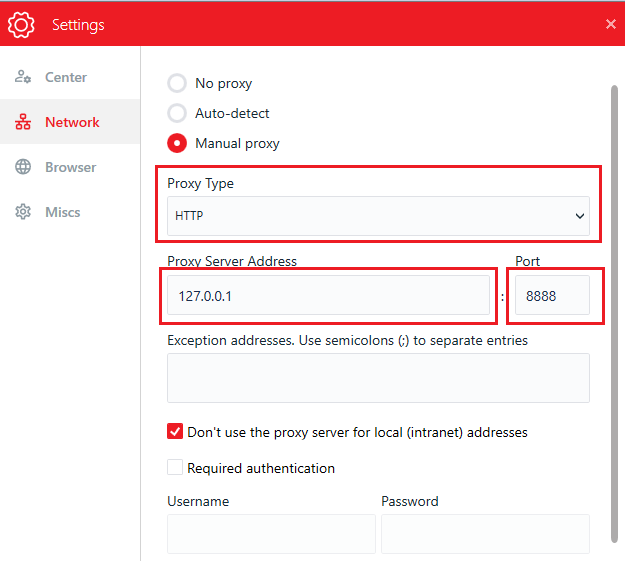
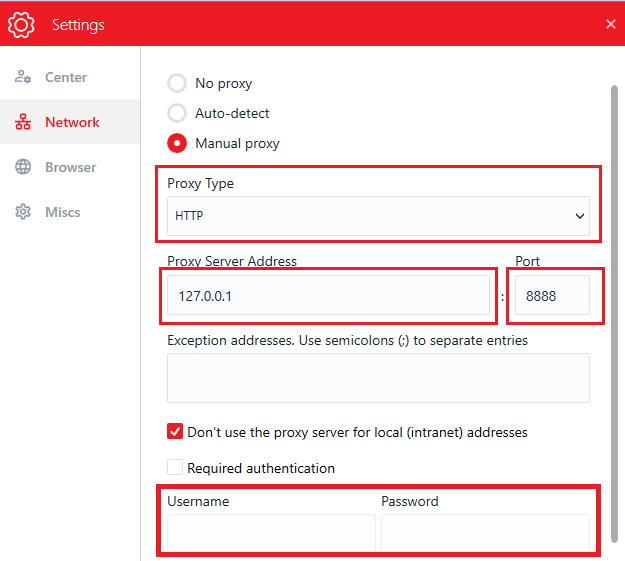
moved: troubleshoot ask ai fix: image to big in how to use ask ai

Changed region(s): [[0.2432, 0.8485, 0.9728, 1.0]]

diff --git a/docs/studio/latest/user-guide/generating-expression-code.md b/docs/studio/latest/user-guide/generating-expression-code.md
@@ -125,3 +125,7 @@ These prompts are designed for the **Code Editor** (used in Invoke Code or Scrip
 | **Filter & Aggregation** | Grouping, aggregation, and complex joins on data tables that are too verbose for a single-line expression. | `"Group dt_Sales by Column 'Region' and compute the sum of 'Revenue' for each region into a new DataTable out_Summary"` |
 | **Error Handling & Logging** | Implements standard try-catch blocks around sensitive file operations to log errors without breaking the main bot thread. | `"Try to read file at in_FilePath, catch all exceptions, write details to Console.Error, and set out_IsSuccess to false"` |
 | **File System Manipulation** | Performs deep recursive file scans, filtering, and copying operations. | `"Recursively search directory in_SourcePath for all files modified in the last 24 hours, copy them to in_DestPath, and count total files copied in out_FileCount"` |
+
+## Troubleshooting
+
+If you encounter network connection issues or errors when using the Ask AI service, refer to the [Troubleshoot Ask AI](../troubleshoot/troubleshoot-ask-ai.md) guide.

diff --git a/docs/studio/latest/user-guide/how-to-use-ask-ai.md b/docs/studio/latest/user-guide/how-to-use-ask-ai.md
@@ -132,3 +132,7 @@ After configuring these properties, the Deserialize Json <T> activity should par
 ```
 
 ![How to use activities](/static/img/how-to-use-activities-ask-ai.png)
+
+## Troubleshooting
+
+If you encounter network connection issues or errors when using the Ask AI service, refer to the [Troubleshoot Ask AI](../troubleshoot/troubleshoot-ask-ai.md) guide.

diff --git a/i18n/ja/studio/latest/user-guide/generating-expression-code.md b/i18n/ja/studio/latest/user-guide/generating-expression-code.md
@@ -123,3 +123,7 @@ AIアシスタントから最も正確で信頼性の高い式を取得するに
 | **Filter & Aggregation** | 1行の式では冗長すぎるデータテーブルに対するグループ化、集約、および複雑な結合処理を行います。 | `"Group dt_Sales by Column 'Region' and compute the sum of 'Revenue' for each region into a new DataTable out_Summary"` |
 | **Error Handling & Logging** | メインのボットスレッドを中断することなくエラーをログに記録するため、機密性の高いファイル操作の周囲に標準の try-catch ブロックを実装します。 | `"Try to read file at in_FilePath, catch all exceptions, write details to Console.Error, and set out_IsSuccess to false"` |
 | **File System Manipulation** | 深い再帰的なファイルスキャン、フィルタリング、およびコピー操作を実行します。 | `"Recursively search directory in_SourcePath for all files modified in the last 24 hours, copy them to in_DestPath, and count total files copied in out_FileCount"` |
+
+## トラブルシューティング
+
+Ask AI サービスの使用中にネットワーク接続の問題やエラーが発生した場合は、[Ask AI のトラブルシューティング](../troubleshoot/troubleshoot-ask-ai.md) ガイドを参照してください。